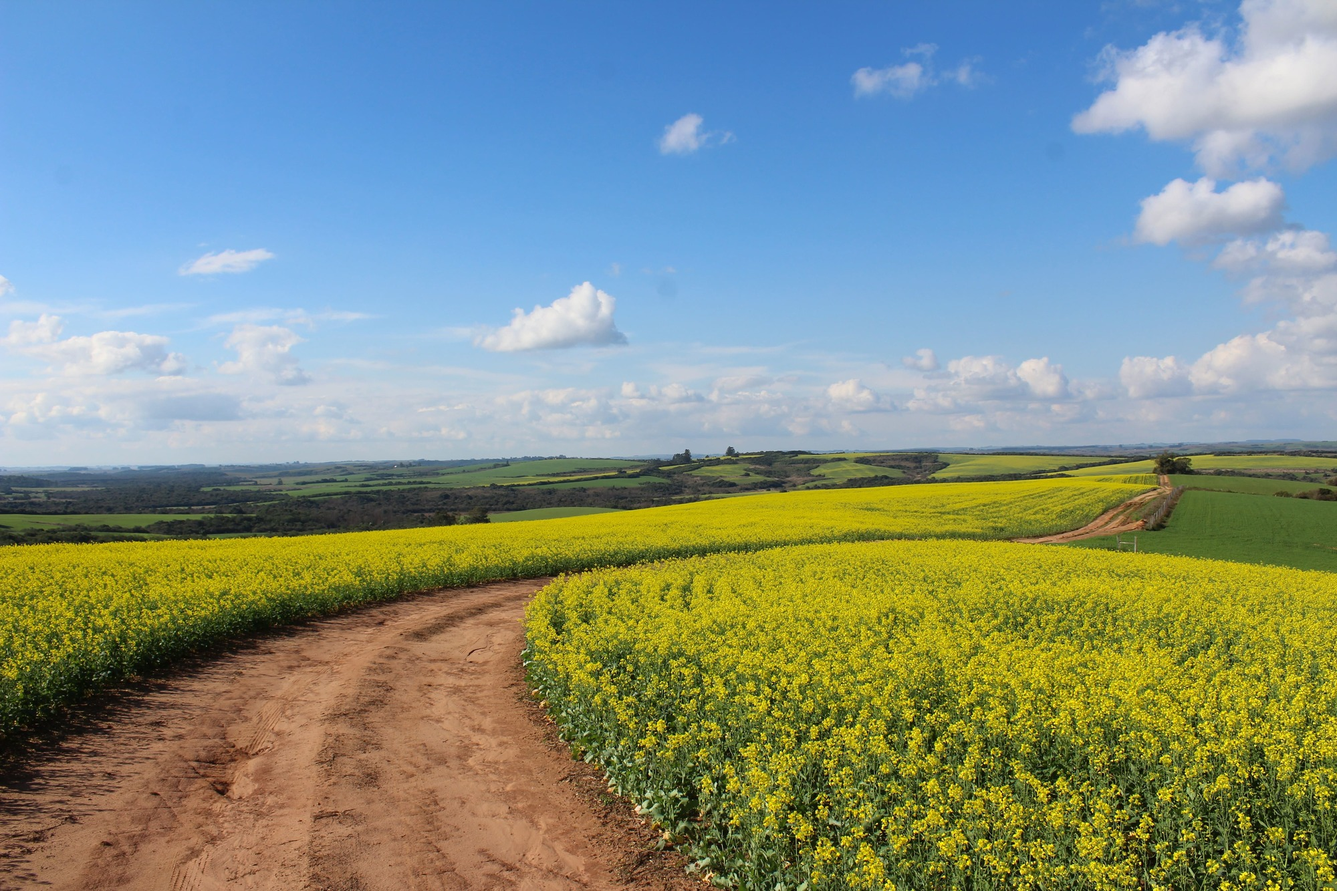
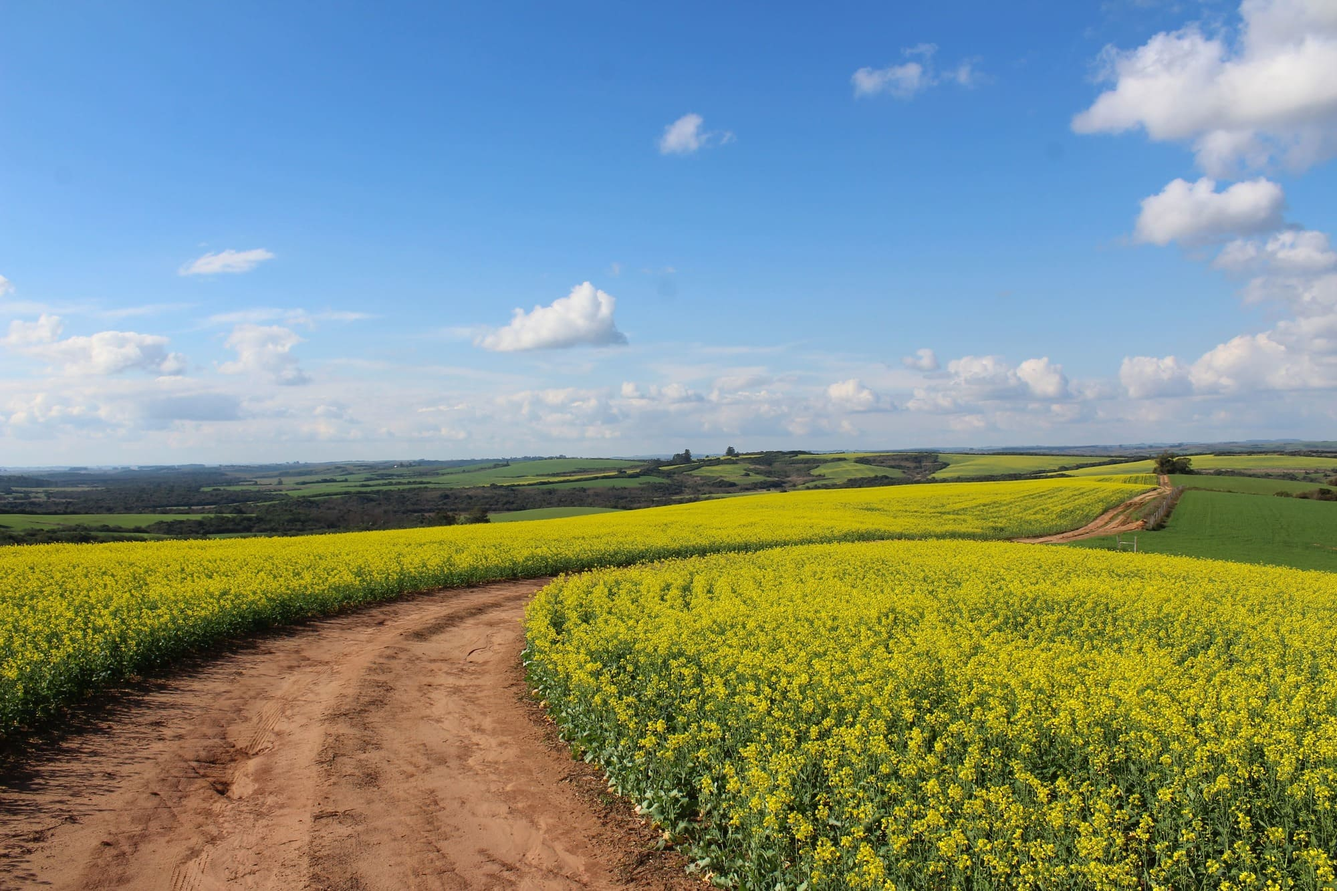
Добавляет третий пост. Оптимизирует картинки.

Changed region(s): [[0.682, 0.892, 0.713, 0.9227]]

diff --git a/post-3.html b/post-3.html
@@ -1,0 +1,166 @@
+<!DOCTYPE html>
+<html lang="ru">
+
+<head>
+
+  <meta charset="utf-8">
+  <meta name="viewport" content="width=device-width, initial-scale=1, shrink-to-fit=no">
+  <meta name="description" content="Как стать руководителем и добиться успеха">
+  <meta name="author" content="Елена Роганова">
+
+  <title>Начало пути! (Часть 3)</title>
+
+  <!-- Bootstrap core CSS -->
+  <link href="vendor/bootstrap/css/bootstrap.min.css" rel="stylesheet">
+
+  <!-- Custom fonts for this template -->
+  <link href="vendor/fontawesome-free/css/all.min.css" rel="stylesheet" type="text/css">
+  <link href='https://fonts.googleapis.com/css?family=Lora:400,700,400italic,700italic' rel='stylesheet' type='text/css'>
+  <link href='https://fonts.googleapis.com/css?family=Open+Sans:300italic,400italic,600italic,700italic,800italic,400,300,600,700,800' rel='stylesheet' type='text/css'>
+
+  <!-- Custom styles for this template -->
+  <!-- <link href="css/clean-blog.min.css" rel="stylesheet"> -->
+  <link href="css/clean-blog.css" rel="stylesheet">
+
+  <link rel="shortcut icon" type="image/png" href="img/photoshop.png">
+
+  <!-- Yandex.Metrika counter -->
+  <script type="text/javascript">
+    (function(m, e, t, r, i, k, a) {
+      m[i] = m[i] || function() {
+        (m[i].a = m[i].a || []).push(arguments)
+      };
+      m[i].l = 1 * new Date();
+      k = e.createElement(t), a = e.getElementsByTagName(t)[0], k.async = 1, k.src = r, a.parentNode.insertBefore(k, a)
+    })
+    (window, document, "script", "https://mc.yandex.ru/metrika/tag.js", "ym");
+
+    ym(52679593, "init", {
+      clickmap: true,
+      trackLinks: true,
+      accurateTrackBounce: true,
+      webvisor: true
+    });
+  </script>
+  <noscript>
+    <div><img src="https://mc.yandex.ru/watch/52679593" style="position:absolute; left:-9999px;" alt="" /></div>
+  </noscript>
+  <!-- /Yandex.Metrika counter -->
+
+</head>
+
+<body>
+
+  <!-- Navigation -->
+  <nav class="navbar navbar-expand-lg navbar-light fixed-top" id="mainNav">
+    <div class="container">
+      <a class="navbar-brand" href="index.html">Елена Роганова</a>
+      <button class="navbar-toggler navbar-toggler-right" type="button" data-toggle="collapse" data-target="#navbarResponsive" aria-controls="navbarResponsive" aria-expanded="false" aria-label="Toggle navigation">
+        <!-- Menu -->
+        <i class="fas fa-bars"></i>
+      </button>
+      <div class="collapse navbar-collapse" id="navbarResponsive">
+        <ul class="navbar-nav ml-auto">
+          <li class="nav-item">
+            <a class="nav-link" href="blog.html">Блог</a>
+          </li>
+          <li class="nav-item">
+            <a class="nav-link" href="experience.html">Опыт</a>
+          </li>
+          <li class="nav-item">
+            <a class="nav-link" href="about.html">Обо мне</a>
+          </li>
+          <li class="nav-item">
+            <a class="nav-link" href="contact.html">Контакты</a>
+          </li>
+        </ul>
+      </div>
+    </div>
+  </nav>
+
+  <!-- Page Header -->
+  <header class="masthead" style="background-image: url('img/post-bg-3.jpg')">
+    <div class="overlay"></div>
+    <div class="container">
+      <div class="row">
+        <div class="col-lg-8 col-md-10 mx-auto">
+          <div class="post-heading">
+            <h1 class="h1">Начало пути! (Часть 3)</h1>
+            <h2 class="subheading">Мечтайте всегда о большем.</h2>
+            <span class="meta">
+              <!-- <a href="#">Start Bootstrap</a> -->
+              07 марта, 2019</span>
+          </div>
+        </div>
+      </div>
+    </div>
+  </header>
+
+  <!-- Post Content -->
+  <article>
+    <div class="container">
+      <div class="row">
+        <div class="col-lg-8 col-md-10 mx-auto text-justify">
+
+          <p>Как чувствует себя человек, который первый раз в жизни устроился на работу? Терзают вопросы: справлюсь ли я, а какой будет коллектив, а какой будет начальник, примут ли меня и много-много других вопросов. Практически каждый в своей жизни испытывал подобные переживания, и я не исключение. Когда я пришла в своей первый рабочий день в магазин, ноги мои немного дрожали, а сердце учащенно билось. Я тогда дала себе установку: «Будь спокойна, слушай что тебе говорят, не спорь, выполняй инструкции, будь приветлива». Ничего другого в общем-то я и не могла, мне надо было понять, как это - работать, как вести себя в коллективе, разобраться в целом что это за зверь такой «работа». Может сейчас это звучит глупо, но девчонке в 18 лет, которая никогда не работала, тогда это казалось очень серьезно.</p>
+
+          <p>Моя первая работа была для меня средством для выживания, неважно что делать, главное, чтобы платили деньги. Кто-то скажет: «уборщица, да что это за работа, это ниже моего достоинства, чтобы я пошел на такую работу, и т.д…». Но мне тогда было все равно, нужно было зарабатывать любым способом лишь бы было на что купить еды и заплатить за съемное жилье. И я была благодарна директору магазина, за то, что он взял 18 летнюю студентку на работу. Я дорожила этой работой, с первых дней начала к ней относиться со всей ответственностью. Для меня было важно вовремя приходить, соблюдать график уборки, качественно мыть полы (как ни смешно это может прозвучать сейчас), не мешать продавцам делать их работу, быть невидимой для них, при этом создавать кругом чистоту и порядок. Трудиться для меня было не сложно, я к этому была приучена с детства.</p>
+
+          <p>Когда я освоилась на новом месте, и мои обязанности стали для меня обычным делом, я стала наблюдать за работой продавцов бытовой техники, месяцы наблюдения привели меня к тому, что я подумала: «я тоже могу быть таким же продавцом, я уже изучила всю линейку бытовой техники, представленную в магазине и я чувствую, что могу точно также общаться с покупателями и помогать им сделать выбор». Вывод, который я сделала тогда для себя звучал так: наблюдай за работой других людей, учись у этих людей, не бойся задавать вопросы и мечтай о большем. Вот так, с мечтами о большем я продолжала работать и параллельно начала искать новую, более серьезную и сложную работу чем уборщица. Но при этом никто не отменял того факта, что я студентка без опыта и мои требования к работодателю оставались прежними (белая зарплата и стабильная компания), за одним исключением, надо найти работу в офисе – секретарь, оператор ПК и т.п. Пришла пора начать работать не руками, а головой, я почувствовала, что могу быть кем-то больше, чем уборщица. Это чувство просто возникло в моей голове, и оно меня по сей день не покидает.</p>
+
+          <p>Начало было положено…</p>
+
+        </div>
+      </div>
+    </div>
+  </article>
+
+  <hr>
+
+  <!-- Footer -->
+  <footer>
+    <div class="container">
+      <div class="row">
+        <div class="col-lg-8 col-md-10 mx-auto">
+          <ul class="list-inline text-center">
+            <li class="list-inline-item">
+              <a href="https://vk.com/id23436980">
+                <span class="fa-stack fa-lg">
+                  <i class="fas fa-circle fa-stack-2x"></i>
+                  <i class="fab fa-vk fa-stack-1x fa-inverse"></i>
+                </span>
+              </a>
+            </li>
+            <li class="list-inline-item">
+              <a href="https://www.instagram.com/helenroganova/">
+                <span class="fa-stack fa-lg">
+                  <i class="fas fa-circle fa-stack-2x"></i>
+                  <i class="fab fa-instagram fa-stack-1x fa-inverse"></i>
+                </span>
+              </a>
+            </li>
+            <li class="list-inline-item">
+              <a href="https://www.facebook.com/elena.roganova.14">
+                <span class="fa-stack fa-lg">
+                  <i class="fas fa-circle fa-stack-2x"></i>
+                  <i class="fab fa-facebook-f fa-stack-1x fa-inverse"></i>
+                </span>
+              </a>
+            </li>
+          </ul>
+          <p class="copyright text-muted">&copy; Роганова Е.Е., 2019</p>
+        </div>
+      </div>
+    </div>
+  </footer>
+
+  <!-- Bootstrap core JavaScript -->
+  <script src="vendor/jquery/jquery.min.js"></script>
+  <script src="vendor/bootstrap/js/bootstrap.bundle.min.js"></script>
+
+  <!-- Custom scripts for this template -->
+  <script src="js/clean-blog.min.js"></script>
+
+</body>
+
+</html>

diff --git a/post-2.html b/post-2.html
@@ -8,7 +8,7 @@
   <meta name="description" content="Как стать руководителем и добиться успеха">
   <meta name="author" content="Елена Роганова">
 
-  <title>Начало пути! (Часть 1)</title>
+  <title>Начало пути! (Часть 2)</title>
 
   <!-- Bootstrap core CSS -->
   <link href="vendor/bootstrap/css/bootstrap.min.css" rel="stylesheet">
@@ -101,12 +101,21 @@
     <div class="container">
       <div class="row">
         <div class="col-lg-8 col-md-10 mx-auto text-justify">
+
           <p>Прежде чем я продолжу рассказ о начале своей трудовой деятельности, я хочу сделать небольшое отступление о моем детстве, чтобы дальше было понятнее мое отношение к работе.</p>
+
           <p>Моя мама более 20 лет работала директором школы. Она была для меня примером ответственного, любящего порядок человека, у которого всегда тетради и учебники были сложены аккуратными стопочками, на рабочем месте был идеальный порядок, а ее аккуратный почерк был дополнительным подтверждением организованности. Все учебные планы и документы школы были также всегда в полном порядке. Я видела, как она ведет уроки, как ее слушаются в классе дети. Ее громкий, уверенный и четкий голос заставлял всех замолкать и слушать, что она говорит. То, как она проводит собрания с учителями и много других примеров были перед моими глазами, которые в дальнейшем стали для меня ясным ориентиром как для молодого начинающего руководителя. Я думаю, что мне с «молоком матери» привилось стремление к внутреннему порядку и упорядочиванию вещей, которые меня окружают.</p>
+
           <p>Не менее важным аспектом, который повлиял на мое отношение к работе в будущем, стала моя жизнь в деревне. У нас было большое хозяйство: две коровы, овцы, свиньи, куры, собака, кошки и огород в придачу. Содержание хозяйства в деревне требует очень высокого уровня организованности. День начинается, примерно, с 6 утра, когда нужно проснуться, напоить и накормить весь скот, подоить коров. Далее тоже самое в обед и вечером, а летом к этому еще прибавляется выпас скота в поле, сенокос и уход за огородом. И ты не можешь нарушить этот график, так как от этого зависит жизнь этих животных и питание всей семьи. Примерно с 10 лет я уже умела доить корову, стричь овец, косить траву и активно привлекалась к процессу ухода за всеми животными.</p>
+
           <p>Сейчас, когда мне 33 года, я точно могу сказать, что детей с детства нужно приучать к осмысленному труду, привлекать к домашним делам, создавать им их собственную зону ответственности. Это развивает у детей чувство ответственности за то, что они делают, формирует у них понимание откуда берутся в доме вещи и еда. Понимание что это результат труда их родителей, их труда и других людей. Они учатся отвечать за свой результат работы и видят, как их деятельность отражается на других членах семьи или животных, за которыми они ухаживают. В процессе труда ребенок учиться коммуникации, пунктуальности, усидчивости, развивает внимательность и многие другие качества, навыки, которые ему пригодятся во взрослой жизни.</p>
+
           <p>Мои родители и моя бабушка в детстве заложили во мне этот прочный фундамент, на котором я начала строить свою жизнь, а также карьеру и продолжаю уверенно двигаться вперед и по сей день. Я думаю, они сделали это неосознанно, и я в детстве впитывала их уроки тоже неосознанно, но сейчас оборачиваясь назад я безмерно им благодарна за свое детство и за этот фундамент.</p>
-          <blockquote class="blockquote">Продолжение следует...</blockquote>
+
+          <div class="clearfix">
+            <a class="btn btn-primary float-right" href="post-3.html">Продолжение &rarr;</a>
+          </div>
+
         </div>
       </div>
     </div>

diff --git a/post-1.html b/post-1.html
@@ -101,18 +101,25 @@
     <div class="container">
       <div class="row">
         <div class="col-lg-8 col-md-10 mx-auto text-justify">
+
           <p>2002 год, сданы выпускные экзамены, аттестат о среднем полном образовании лежит в кармане и один вопрос в голове: «Куда поступать?». Мне с детства родители говорили о важности высшего образования, что нужно обязательно окончить 11
             классов и поступить в институт. Что без высшего образования не найти хорошей работы и не устроиться в жизни. Я выросла в семье учителей, бабушка и мама были учителями русского языка и литературы. Заканчивая школу, я знала, что буду
             учителем истории, буду поступать в институт и обязательно займусь археологией. С этими мыслями в 2002 году я смело перешагнула порог Тверского государственного университета и сдала документы приемной комиссии на Исторический факультет.
           </p>
+
           <p>Первый год учебы был полон эйфории от осознания, что ты начал новую главу своей жизни, вступил на самостоятельный путь и теперь ты сам все решаешь, родители далеко и никто не говорит тебе что и как ты должен делать. Но уже в начале
             второго курса я поняла, что мне не интересна профессия учителя истории, исчезли романтические иллюзии о занятиях археологией и вообще учеба стала бременем, а учебный процесс перестал доставлять удовольствие. В это время наступили тяжелые
             времена, семья не могла обеспечивать мое обучение в полной мере, денег катастрофически не хватало. Конец второго курса был ознаменован переводом на заочное отделение, и я приступила к поиску работы. Вариант бросить учебу, вернуться под
             крыло родителей в Торопец и поступить там в сельскохозяйственный техникум для меня был неприемлем, мой девиз был: «Любой ценой остаться в Твери».</p>
+
           <p>Какому работодателю ты нужен, когда тебе 18 лет, ты студент и у тебя нет никакого опыта работы? Ответ на этот вопрос я узнала быстро, ты не нужен 99% работодателей. В то время мои требования к работе были очень простыми: нужна компания,
             которая будет выплачивать белую зарплату студенту за работу, для выполнения которой не нужен опыт. Я нашла такую работу, это был торговый дом СТЭКО в Твери, магазин по продаже бытовой техники, меня туда взяли уборщицей. Как сейчас помню
             график 2 через 2, с 9 до 21. Зарплата 3000 рублей, это был 2004 год, я начала работать…</p>
-          <blockquote class="blockquote"><a href="post-2.html">Продолжение...</a></blockquote>
+
+          <div class="clearfix">
+            <a class="btn btn-primary float-right" href="post-2.html">Продолжение &rarr;</a>
+          </div>
+
         </div>
       </div>
     </div>

diff --git a/blog.html b/blog.html
@@ -99,6 +99,18 @@
       <div class="col-lg-8 col-md-10 mx-auto">
 
         <div class="post-preview">
+          <a href="post-3.html">
+            <h2 class="post-title">Начало пути!<br> (Часть 3)</h2>
+            <h3 class="post-subtitle">Мечтайте всегда о большем.</h3>
+          </a>
+          <p class="post-meta">
+            <!-- <a href="#">Start Bootstrap</a> -->
+            09 марта, 2019</p>
+        </div>
+
+        <hr>
+
+        <div class="post-preview">
           <a href="post-2.html">
             <h2 class="post-title">Начало пути!<br> (Часть 2)</h2>
             <h3 class="post-subtitle">Определяет ли детство каким ты будешь в будущем?</h3>
@@ -119,49 +131,6 @@
             <!-- <a href="#">Start Bootstrap</a> -->
             06 марта, 2019</p>
         </div>
-
-        <!-- <div class="post-preview">
-          <a href="post.html">
-            <h2 class="post-title">
-              I believe every human has a finite number of heartbeats. I don't intend to waste any of mine.
-            </h2>
-          </a>
-          <p class="post-meta">Posted by
-            <a href="#">Start Bootstrap</a>
-            on September 18, 2019</p>
-        </div> -->
-
-        <!-- <hr> -->
-
-        <!-- <div class="post-preview">
-          <a href="post.html">
-            <h2 class="post-title">
-              Science has not yet mastered prophecy
-            </h2>
-            <h3 class="post-subtitle">
-              We predict too much for the next year and yet far too little for the next ten.
-            </h3>
-          </a>
-          <p class="post-meta">Posted by
-            <a href="#">Start Bootstrap</a>
-            on August 24, 2019</p>
-        </div> -->
-
-        <!-- <hr> -->
-
-        <!-- <div class="post-preview">
-          <a href="post.html">
-            <h2 class="post-title">
-              Failure is not an option
-            </h2>
-            <h3 class="post-subtitle">
-              Many say exploration is part of our destiny, but it’s actually our duty to future generations.
-            </h3>
-          </a>
-          <p class="post-meta">Posted by
-            <a href="#">Start Bootstrap</a>
-            on July 8, 2019</p>
-        </div> -->
 
         <!-- <hr> -->
 

diff --git a/index.html b/index.html
@@ -101,6 +101,18 @@
       <div class="col-lg-8 col-md-10 mx-auto">
 
         <div class="post-preview">
+          <a href="post-3.html">
+            <h2 class="post-title">Начало пути!<br> (Часть 3)</h2>
+            <h3 class="post-subtitle">Мечтайте всегда о большем.</h3>
+          </a>
+          <p class="post-meta">
+            <!-- <a href="#">Start Bootstrap</a> -->
+            09 марта, 2019</p>
+        </div>
+
+        <hr>
+
+        <div class="post-preview">
           <a href="post-2.html">
             <h2 class="post-title">Начало пути!<br> (Часть 2)</h2>
             <h3 class="post-subtitle">Определяет ли детство каким ты будешь в будущем?</h3>
@@ -121,36 +133,6 @@
             <!-- <a href="#">Start Bootstrap</a> -->
             06 марта, 2019</p>
         </div>
-
-        <!-- <div class="post-preview">
-          <a href="post.html">
-            <h2 class="post-title">
-              Science has not yet mastered prophecy
-            </h2>
-            <h3 class="post-subtitle">
-              We predict too much for the next year and yet far too little for the next ten.
-            </h3>
-          </a>
-          <p class="post-meta">Posted by
-            <a href="#">Start Bootstrap</a>
-            on August 24, 2019</p>
-        </div> -->
-
-        <!-- <hr> -->
-
-        <!-- <div class="post-preview">
-          <a href="post.html">
-            <h2 class="post-title">
-              Failure is not an option
-            </h2>
-            <h3 class="post-subtitle">
-              Many say exploration is part of our destiny, but it’s actually our duty to future generations.
-            </h3>
-          </a>
-          <p class="post-meta">Posted by
-            <a href="#">Start Bootstrap</a>
-            on July 8, 2019</p>
-        </div> -->
 
         <!-- <hr> -->
 

diff --git a/about.html b/about.html
@@ -78,7 +78,7 @@
     </div>
   </nav>
   <!-- Page Header -->
-  <header class="masthead" style="background-image: url('img/index-bg-2.jpg')">
+  <header class="masthead" style="background-image: url('img/about-bg.jpg')">
     <div class="overlay"></div>
     <div class="container">
       <div class="row">

diff --git a/experience.html b/experience.html
@@ -79,7 +79,7 @@
   </nav>
 
   <!-- Page Header -->
-  <header class="masthead" style="background-image: url('img/about-bg.jpg')">
+  <header class="masthead" style="background-image: url('img/experience-bg.jpg')">
     <div class="overlay"></div>
     <div class="container">
       <div class="row">
